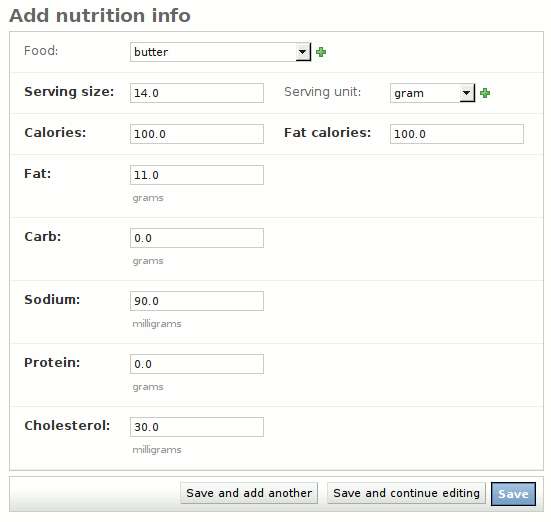
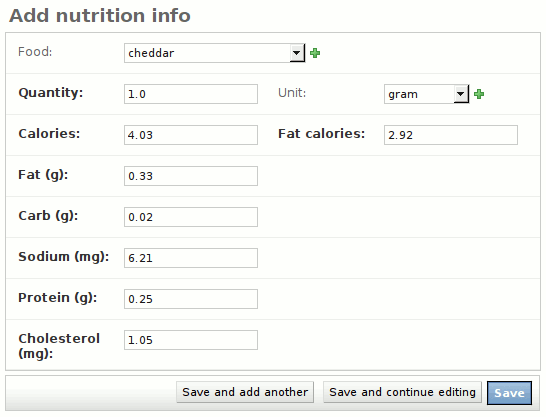
Include (g) or (mg) in nutrition labels, updated docs

diff --git a/nutrition/models.py b/nutrition/models.py
@@ -10,11 +10,11 @@ class NutritionInfo (ModelWrapper):
     unit         = models.ForeignKey(Unit, null=True, blank=True)
     calories     = models.FloatField(default=0)
     fat_calories = models.FloatField(default=0)
-    fat          = models.FloatField(default=0, help_text="grams")
-    carb         = models.FloatField(default=0, help_text="grams")
-    sodium       = models.FloatField(default=0, help_text="milligrams")
-    protein      = models.FloatField(default=0, help_text="grams")
-    cholesterol  = models.FloatField(default=0, help_text="milligrams")
+    fat          = models.FloatField("Fat (g)", default=0)
+    carb         = models.FloatField("Carb (g)", default=0)
+    sodium       = models.FloatField("Sodium (mg)", default=0)
+    protein      = models.FloatField("Protein (g)", default=0)
+    cholesterol  = models.FloatField("Cholesterol (mg)", default=0)
 
     class Meta:
         ordering = ['food']

diff --git a/docs/source/user_manual/nutrition.rst b/docs/source/user_manual/nutrition.rst
@@ -10,18 +10,27 @@ information is managed by the **Nutrition** app.
 
 .. image:: images/nutrition_administration.png
 
-Click the **Add** link to add nutritional information for any food, or
-**Change** to view the list of existing nutritional information. Adding new
-nutritional information is fairly simple:
+You can click the **Add** link to add nutritional information for any food, or
+**Change** to view the list of existing nutritional information. There are two
+ways to add new nutritional information; you can do it through via the
+**Nutrition** app, where you'll get a form like this:
 
 .. image:: images/add_nutrition_info.png
 
+An easier way is to add nutritional information directly to the **Food** form:
+
+.. image:: images/food_nutrition_info.png
+
 Using a standard nutrition label from the food you're entering, simply enter the
-numeric values for each nutrient. It's best to use a serving unit of **gram**
-whenever possible, though you may want to omit the units for certain foods if
-they are not normally measured by weight or volume. For example, the nutritional
-info for one egg would have a **Serving size** of 1, with the **Serving unit**
+numeric values for each nutrient. It's best to use a quantity with a **Unit** of
+**gram** whenever possible, though you may want to omit the unit for certain
+foods if they are not normally measured by weight or volume. For example, the
+nutritional info for one egg could have a **Quantity** of 1, with the **Unit**
 omitted.
+
+
+Density
+-------
 
 The most accurate way to measure nutritional information is by weight, and
 Vittles uses grams as a basline for all calculations related to nutritional
